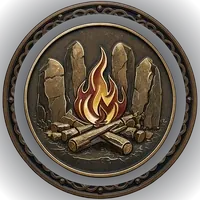
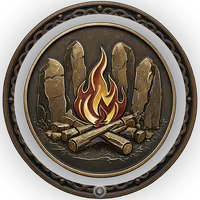
feat(badge-art): finalize rank bosses and rank variants
- user selected bronze/silver/gold recommendations; mithril override to b-173205
- 11 fixed-rank badges have the selected boss baked into the final composite
- 4 repeatable habit badges have bronze/silver/gold/mithril rank variants
- base repeatable images remain a no-boss fallback; client selects by presentation.rank
- final 512/200 WebPs, final set sheet and repeatable rank sheet
- PhotoCraft composites with clipped contact shadow; boss-review sheets updated for mithril
- decisions, boss-selections and selection record updated; size targets met

diff --git a/reports/badge-art/boss-review/index.html b/reports/badge-art/boss-review/index.html
@@ -20,7 +20,7 @@
 <nav><a href="#finalists">Boss finalists</a><a href="#stamped">Stamped frames</a><a href="#detail">Boss detail</a><a href="finalists/512/">Boss art files</a><a href="stamped/512/">Stamped frame files</a><a href="README.md">README</a></nav></header>
 <main>
 <section id="finalists"><h2>Boss finalists</h2>
-<table><tr><th>Rank</th><th>Finalist A</th><th>Finalist B</th><th>Recommended</th></tr><tr><td>Bronze</td><td><code>a-112358</code> · 4.5</td><td><code>a-271828</code> · 4.2</td><td><strong>a-112358</strong></td></tr><tr><td>Silver</td><td><code>a-314159</code> · 4.7</td><td><code>a-271828</code> · 4.4</td><td><strong>a-314159</strong></td></tr><tr><td>Gold</td><td><code>a-314159</code> · 4.8</td><td><code>b-314159</code> · 4.4</td><td><strong>a-314159</strong></td></tr><tr><td>Mithril</td><td><code>b-314159</code> · 4.7</td><td><code>b-173205</code> · 4.5</td><td><strong>b-314159</strong></td></tr></table>
+<table><tr><th>Rank</th><th>Finalist A</th><th>Finalist B</th><th>Recommended</th></tr><tr><td>Bronze</td><td><code>a-112358</code> · 4.5</td><td><code>a-271828</code> · 4.2</td><td><strong>a-112358</strong></td></tr><tr><td>Silver</td><td><code>a-314159</code> · 4.7</td><td><code>a-271828</code> · 4.4</td><td><strong>a-314159</strong></td></tr><tr><td>Gold</td><td><code>a-314159</code> · 4.8</td><td><code>b-314159</code> · 4.4</td><td><strong>a-314159</strong></td></tr><tr><td>Mithril</td><td><code>b-314159</code> · 4.7</td><td><code>b-173205</code> · 4.5</td><td><strong>b-173205</strong></td></tr></table>
 <h3>512 px boss art</h3><a href="boss-finalists-hires-sheet.jpg"><img class="shot" src="boss-finalists-hires-sheet.jpg" alt="Boss finalists 512"></a>
 </section>
 <section id="stamped"><h2>Stamped on the locked frames</h2>

diff --git a/reports/badge-art/decisions.md b/reports/badge-art/decisions.md
@@ -41,31 +41,32 @@ The user selected all 15 emblems on 2026-11-02. The picks are recorded in `final
 
 **Preference rules captured for future emblems:** story beat drives the material; dark/bleak beats use aged or hard metal, deep blues and limited palettes; avoid candy green/blue, oversized sun/moon, too many competing colours, and flat polished gloss. Warm/home beats can use warm enamel; wonder/elder beats can use gold/silver/crystal; habit beats can use limited green/blue. A restrained hard-metal option can beat a cheap bright one.
 
-## Final base composites
+## Final composites
 
-- 15 base composites generated in PhotoCraft: **selected emblem + locked family frame + 880 px dark well**.
-- 1024 px masters: `raw_assets/badges/final/<slug>.png` (gitignored).
-- Production review sizes: `public/img/achievements/<slug>.webp` (512) and `<slug>-thumb.webp` (200).
-- Set sheet: `final/final-set.jpg`.
-- **Rank boss layer is deliberately not baked yet.** The handcrafted bosses are still under user review; after selection, the chosen boss will be added to these 15 composites and the frame + boss sheets will be rebuilt.
+- **11 fixed-rank badges** have the selected boss baked in: 8 journey + 2 community + First Steps. The public 512/200 files are `<slug>.webp` / `<slug>-thumb.webp`.
+- **4 repeatable habit badges** — Faithful Walker, Weekend Warrior, Steady Month, Hundred-K Week — have **four rank variants** each, because the rank changes with earned count:
+  - `<slug>--bronze.webp`, `--silver`, `--gold`, `--mithril`, plus 200 px thumbs.
+  - The base `<slug>.webp` remains a no-boss fallback.
+  - The client must select the variant from `presentation.rank`; if it does not, the fallback shows the emblem/frame without a boss.
+- 1024 masters: `raw_assets/badges/final-complete/` (gitignored).
+- Set sheet: `final/final-set.jpg` (repeatables shown at gold preview).
+- Rank variants sheet: `final/repeatable-ranks.jpg`.
 
-## Pending — rank bosses — top 2 review
+## Locked — rank bosses
 
-The handcrafted boss set is narrowed to the top two per rank. Both finalists are stamped on all six locked frames in PhotoCraft (contact shadow, 6 o'clock).
+The user accepted all shortlist recommendations except **mithril**: `b-173205` over `b-314159`.
 
-| Rank | Finalist A | Finalist B | Recommended |
-|---|---|---|---|
-| Bronze | `a-112358` (4.5) | `a-271828` (4.2) | **`a-112358`** |
-| Silver | `a-314159` (4.7) | `a-271828` (4.4) | **`a-314159`** |
-| Gold | `a-314159` (4.8) | `b-314159` (4.4) | **`a-314159`** |
-| Mithril | `b-314159` (4.7) | `b-173205` (4.5) | **`b-314159`** |
+| Rank | Selected | Notes |
+|---|---|---|
+| Bronze | `a-112358` | Clean hand-forged round cabochon. |
+| Silver | `a-314159` | Densest octagonal ray work. |
+| Gold | `a-314159` | Dimensional filigree and domed cabochon. |
+| Mithril | `b-173205` | User override; the more refined star. |
 
-Review: `boss-review/index.html` — boss finalists, stamped full-frame sheet, and boss-area detail.
-
-- **DeepSeek:** finalists ready; stamping needs a proper seat/shadow fix (book clasp and challenge barbs collide; shadow fringe; boss tangent to the outer rim).
-- **GLM:** finalists and stamping ready; notes the silver stone highlight and the gold small-size fallback.
-- The 12-candidate contact sheets were removed; the top-2 review set, `boss-shortlist.json`, generation logs, prompts, processing script, and raw boss assets are retained.
-- User review is still open. The boss layer is not yet in the final base composites.
+- Top-two finalist and stamped-frame review: `boss-review/index.html`.
+- The shortlist recommendation for mithril was `b-314159`; the user chose `b-173205`. `boss-selections.json` records the final picks.
+- Dual reviews: DeepSeek finalists ready, stamping flagged for a seat/shadow fix; GLM both ready. The shadow is clipped to the badge alpha in the final composites.
+- The 12-candidate contact sheets were removed; the top-two review set, `boss-shortlist.json`, generation logs, prompts, processing script, and raw boss assets are retained.
 
 ## Applied — image-generation skill
 
@@ -100,3 +101,5 @@ The old emblem/frame/rank-ring/shape review galleries, finalist WebPs, contact s
 - **Rank rings:** retired; not part of the final art.
 - **Frames:** locked as listed above.
 - **Rank label:** the card label is authoritative; the boss is the visual cue.
+- **Rank bosses:** bronze `a-112358`, silver `a-314159`, gold `a-314159`, mithril `b-173205`.
+- **Repeatable bosses:** four rank variants are baked; fixed-rank badges have one bossed image.

diff --git a/reports/badge-art/selections.md b/reports/badge-art/selections.md
@@ -33,3 +33,12 @@ Family frames are **Locked** (user-approved 2026-11-02). Replace each remaining 
 | `rank/mithril` | `a-314159` | `b-271828` | Reference only |  |
 
 Picks are recorded here only; no compositing or production assets exist yet.
+
+## Rank bosses (selected 2026-11-02)
+
+| Rank | Selected | Note |
+|---|---|---|
+| Bronze | `a-112358` | User accepted recommendation. |
+| Silver | `a-314159` | User accepted recommendation. |
+| Gold | `a-314159` | User accepted recommendation. |
+| Mithril | `b-173205` | User override; shortlist had `b-314159`. |
